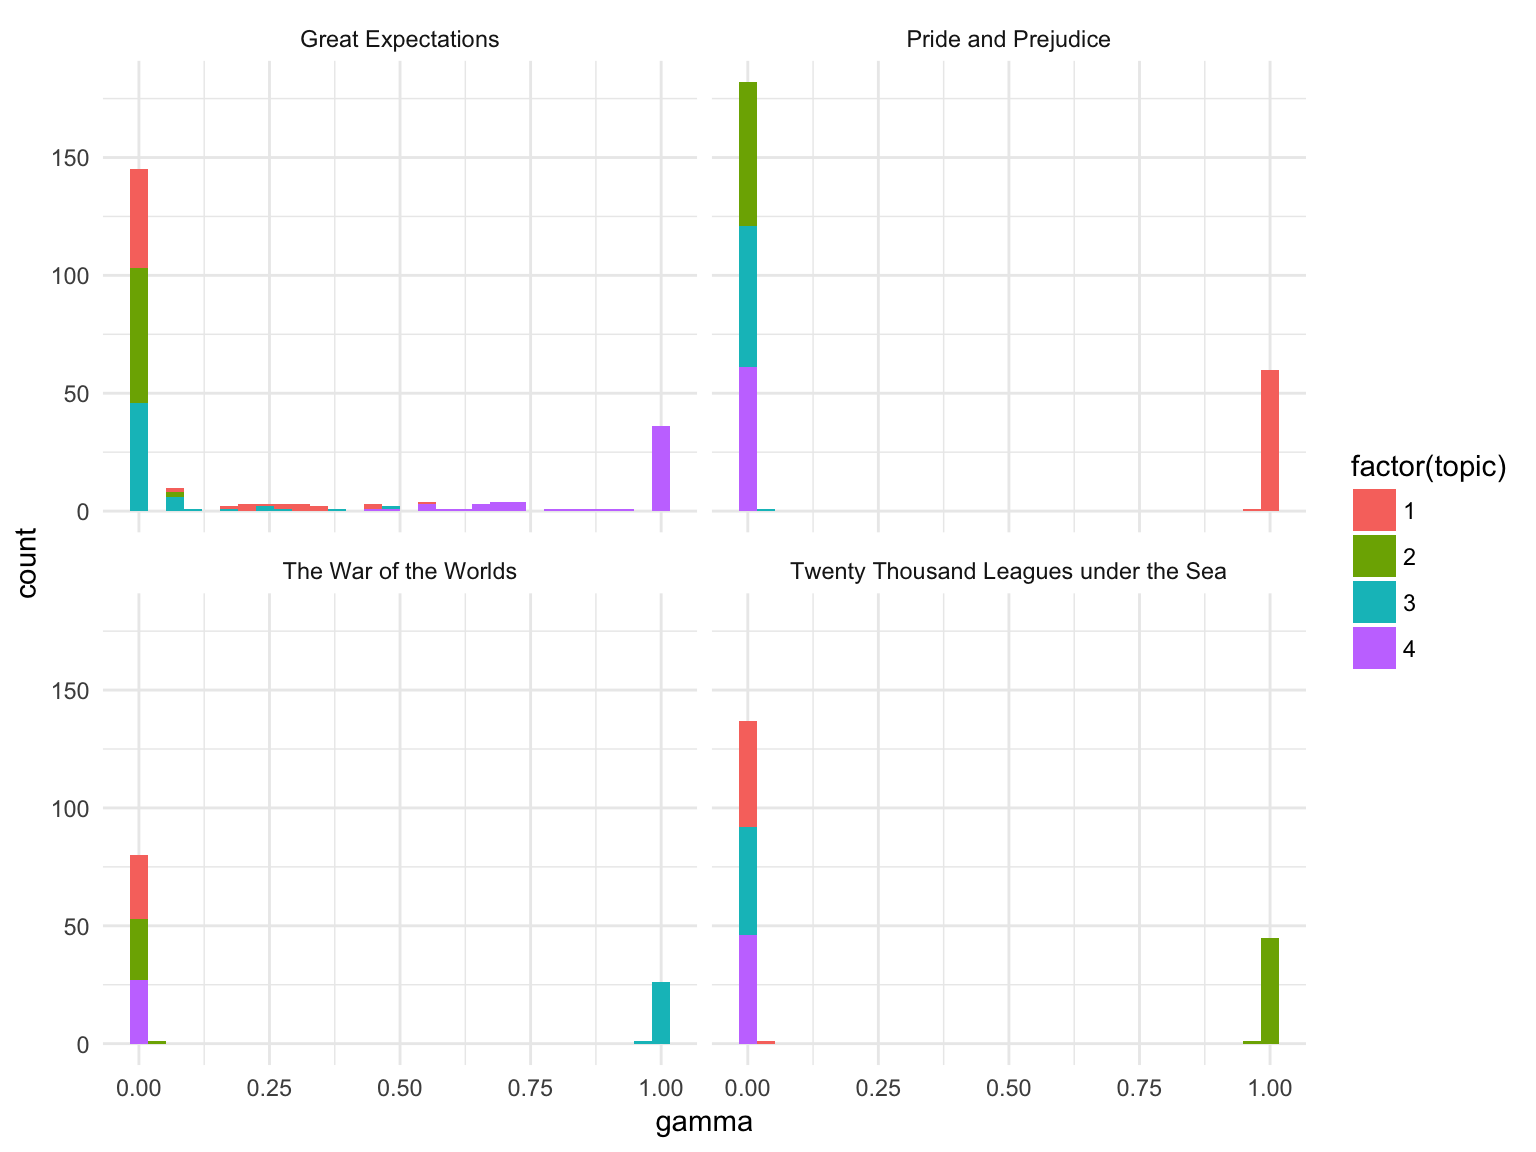
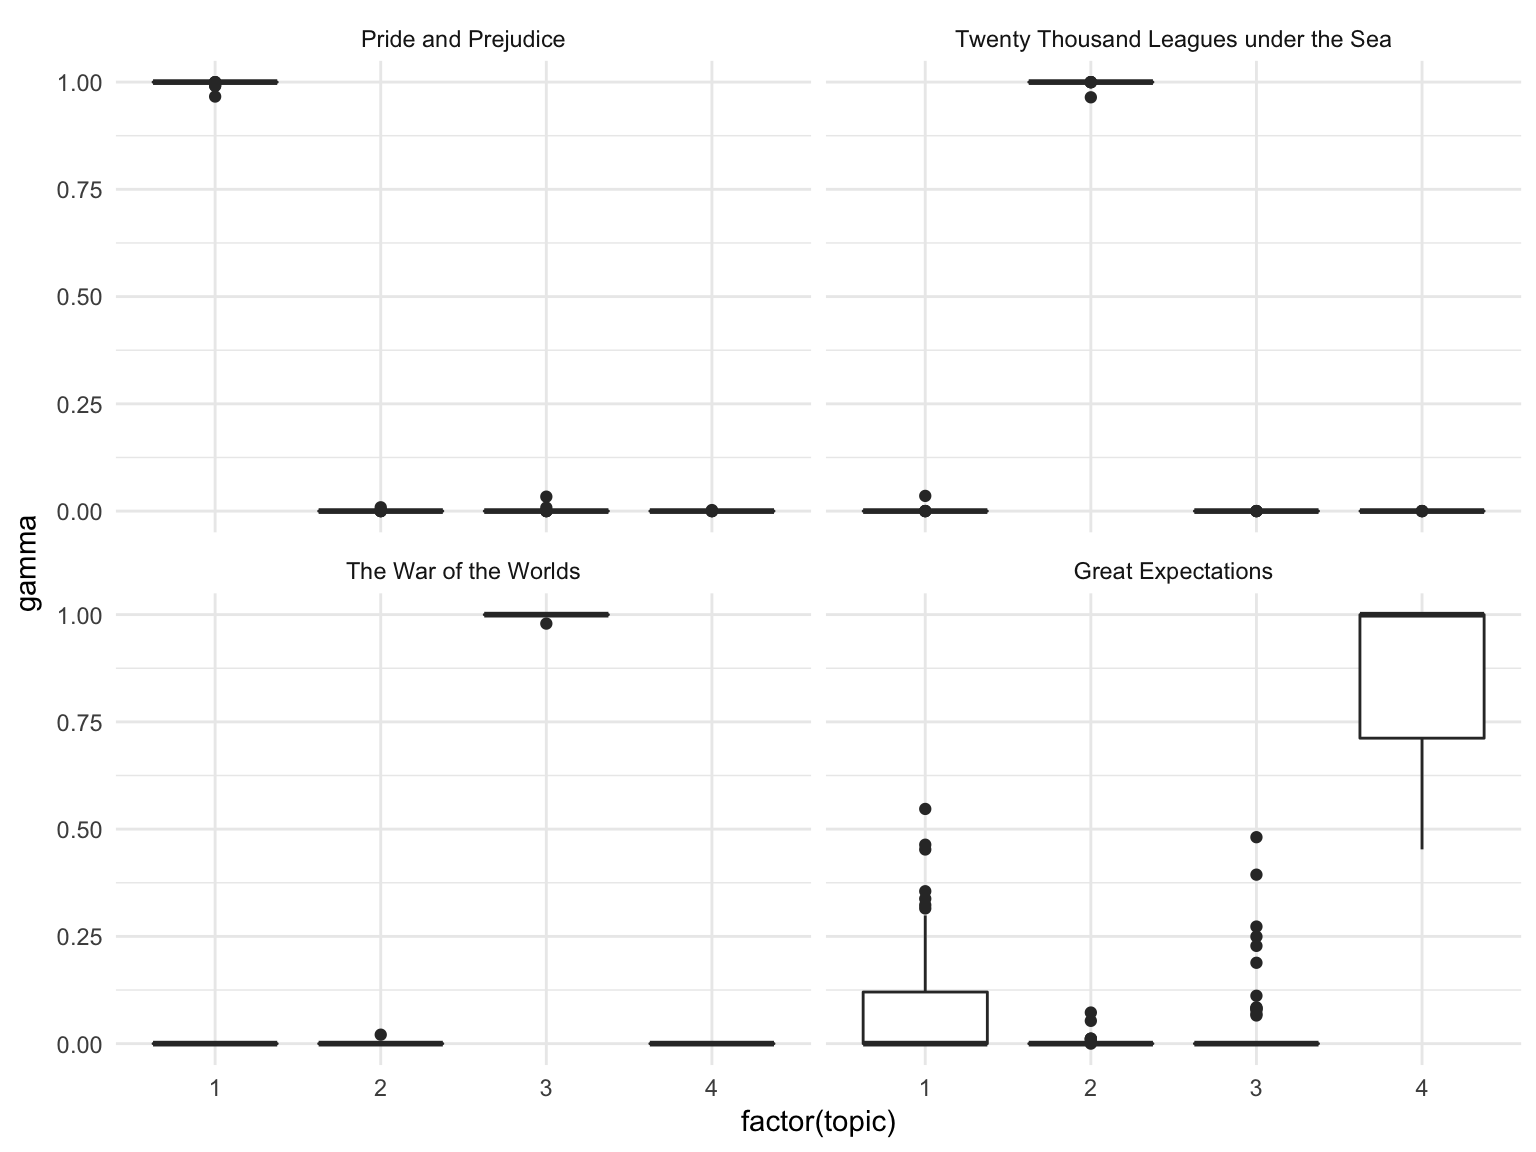
Change topicmodel graph to more clear boxplot

diff --git a/text_topicmodels.html b/text_topicmodels.html
@@ -584,10 +584,12 @@ chapters_lda_gamma</code></pre></div>
 ## 10 The War of the Worlds      16     1 1.073638e-05
 ## # ... with 762 more rows</code></pre>
 <p>Then we examine what fraction of chapters we got right for each:</p>
-<div class="sourceCode"><pre class="sourceCode r"><code class="sourceCode r"><span class="kw">ggplot</span>(chapters_lda_gamma, <span class="kw">aes</span>(gamma, <span class="dt">fill =</span> <span class="kw">factor</span>(topic))) <span class="op">+</span>
-<span class="st">  </span><span class="kw">geom_histogram</span>() <span class="op">+</span>
-<span class="st">  </span><span class="kw">facet_wrap</span>(<span class="op">~</span><span class="st"> </span>title, <span class="dt">nrow =</span> <span class="dv">2</span>)</code></pre></div>
-<pre><code>## `stat_bin()` using `bins = 30`. Pick better value with `binwidth`.</code></pre>
+<div class="sourceCode"><pre class="sourceCode r"><code class="sourceCode r"><span class="co"># reorder titles in order of topic 1, topic 2, etc before plotting</span>
+chapters_lda_gamma <span class="op">%&gt;%</span>
+<span class="st">  </span><span class="kw">mutate</span>(<span class="dt">title =</span> <span class="kw">reorder</span>(title, gamma <span class="op">*</span><span class="st"> </span>topic)) <span class="op">%&gt;%</span>
+<span class="st">  </span><span class="kw">ggplot</span>(<span class="kw">aes</span>(<span class="kw">factor</span>(topic), gamma)) <span class="op">+</span>
+<span class="st">  </span><span class="kw">geom_boxplot</span>() <span class="op">+</span>
+<span class="st">  </span><span class="kw">facet_wrap</span>(<span class="op">~</span><span class="st"> </span>title)</code></pre></div>
 <p><img src="text_topicmodels_files/figure-html/chapters_lda_gamma_plot-1.png" width="768" /></p>
 <p>We notice that almost all of the chapters from <em>Pride and Prejudice</em>, <em>War of the Worlds</em>, and <em>Twenty Thousand Leagues Under the Sea</em> were uniquely identified as a single topic each.</p>
 <div class="sourceCode"><pre class="sourceCode r"><code class="sourceCode r">chapter_classifications &lt;-<span class="st"> </span>chapters_lda_gamma <span class="op">%&gt;%</span>
@@ -985,7 +987,7 @@ top_terms</code></pre></div>
 ##  language (EN)                        
 ##  collate  en_US.UTF-8                 
 ##  tz       America/Chicago             
-##  date     2017-11-21</code></pre>
+##  date     2017-11-27</code></pre>
 <pre><code>## Packages -----------------------------------------------------------------</code></pre>
 <pre><code>##  package     * version    date       source                              
 ##  assertthat    0.2.0      2017-04-11 CRAN (R 3.4.0)                      
@@ -1022,6 +1024,7 @@ top_terms</code></pre></div>
 ##  janeaustenr   0.1.5      2017-06-10 CRAN (R 3.4.0)                      
 ##  jsonlite      1.5        2017-06-01 CRAN (R 3.4.0)                      
 ##  knitr         1.17       2017-08-10 cran (@1.17)                        
+##  labeling      0.3        2014-08-23 CRAN (R 3.4.0)                      
 ##  lattice       0.20-35    2017-03-25 CRAN (R 3.4.1)                      
 ##  lazyeval      0.2.0      2016-06-12 CRAN (R 3.4.0)                      
 ##  lubridate     1.6.0      2016-09-13 CRAN (R 3.4.0)                      
@@ -1041,7 +1044,7 @@ top_terms</code></pre></div>
 ##  psych         1.7.5      2017-05-03 CRAN (R 3.4.1)                      
 ##  purrr       * 0.2.3      2017-08-02 CRAN (R 3.4.1)                      
 ##  R6            2.2.2      2017-06-17 CRAN (R 3.4.0)                      
-##  Rcpp          0.12.13    2017-09-28 cran (@0.12.13)                     
+##  Rcpp          0.12.14    2017-11-23 cran (@0.12.14)                     
 ##  readr       * 1.1.1      2017-05-16 CRAN (R 3.4.0)                      
 ##  readxl        1.0.0      2017-04-18 CRAN (R 3.4.0)                      
 ##  reshape2      1.4.2      2016-10-22 CRAN (R 3.4.0)                      
@@ -1050,7 +1053,7 @@ top_terms</code></pre></div>
 ##  rprojroot     1.2        2017-01-16 CRAN (R 3.4.0)                      
 ##  rstudioapi    0.6        2016-06-27 CRAN (R 3.4.0)                      
 ##  rvest         0.3.2      2016-06-17 CRAN (R 3.4.0)                      
-##  scales        0.4.1      2016-11-09 CRAN (R 3.4.0)                      
+##  scales        0.5.0      2017-08-24 cran (@0.5.0)                       
 ##  slam          0.1-40     2016-12-01 CRAN (R 3.4.0)                      
 ##  SnowballC     0.5.1      2014-08-09 CRAN (R 3.4.0)                      
 ##  stats       * 3.4.1      2017-07-07 local                               
